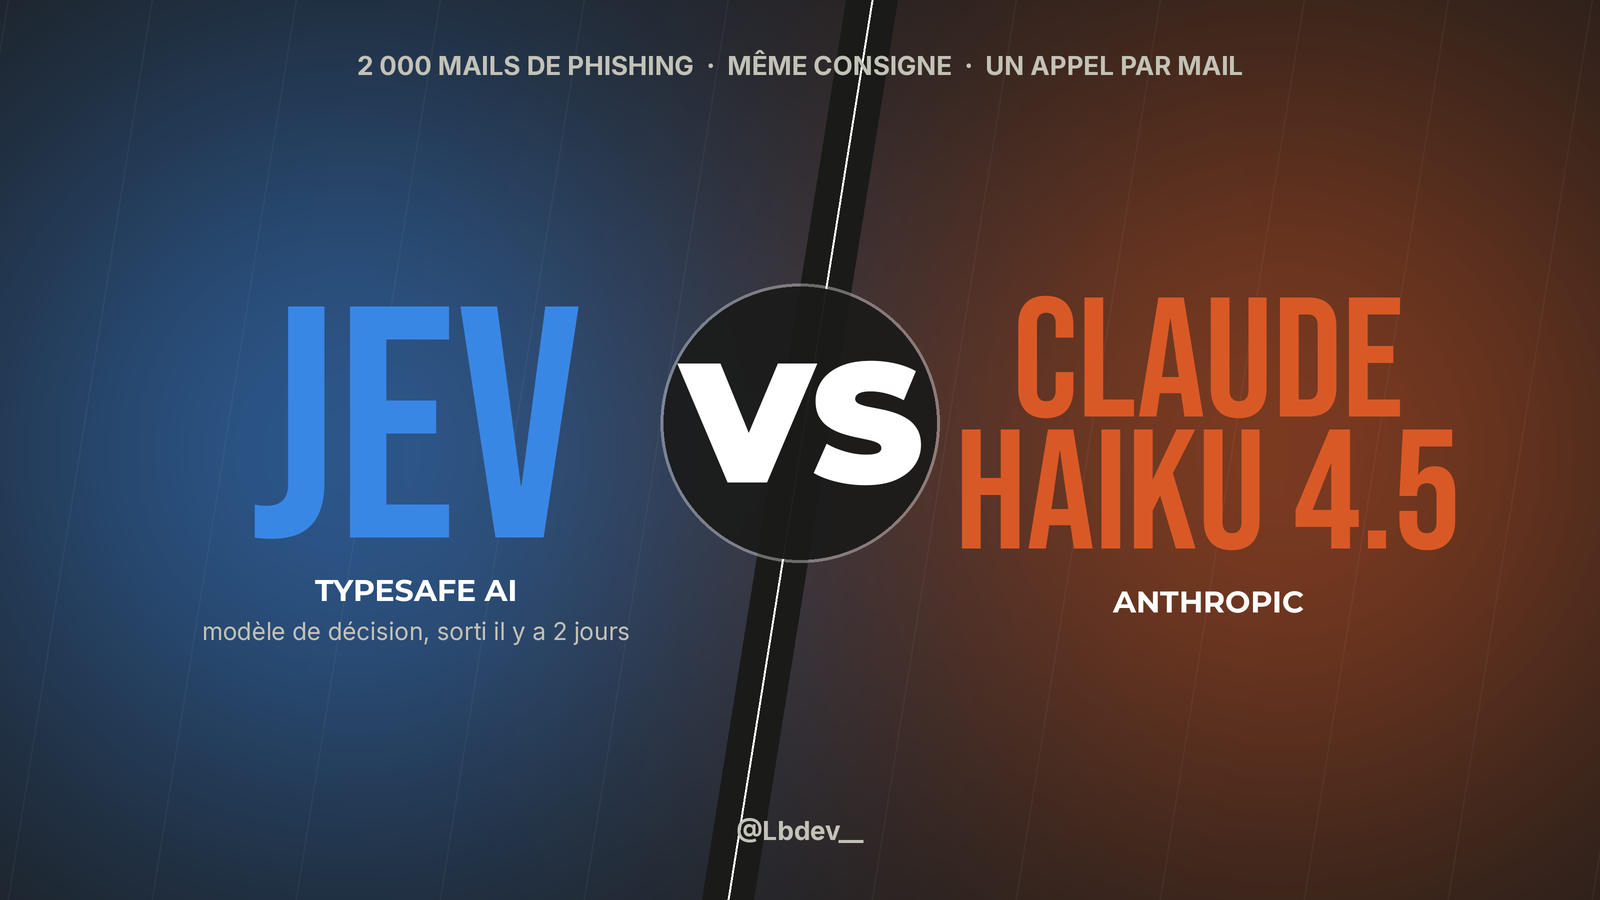
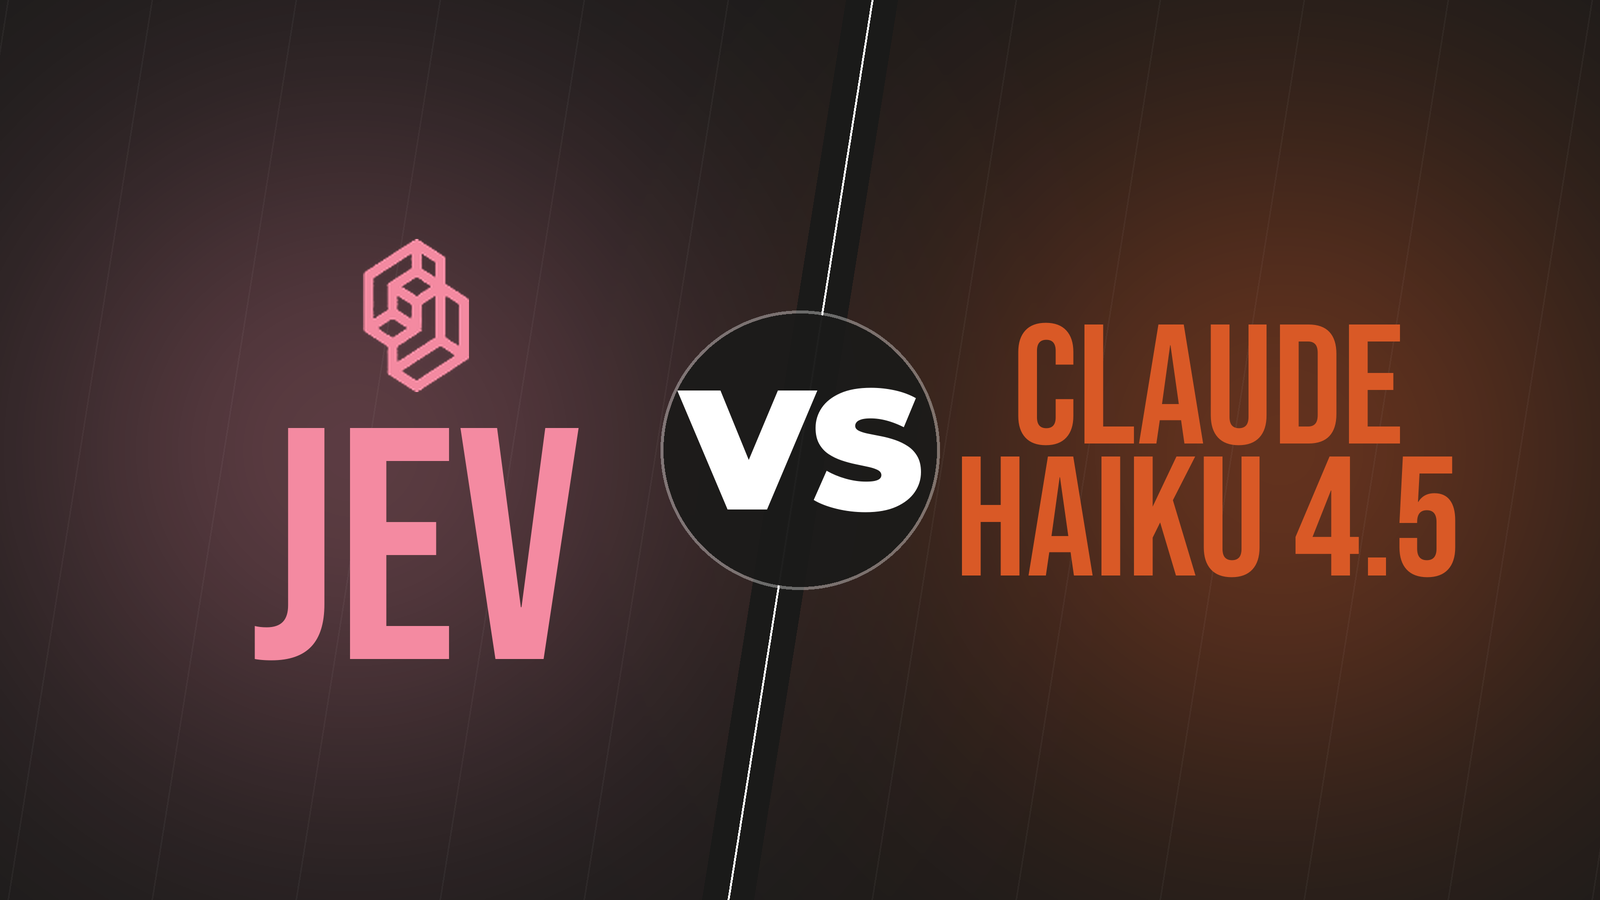
feat(hero): TypeSafe cube mark and brand pink, no text strips
Claude-Session: https://claude.ai/code/session_01THqWH2Mu2r8qJfeTtiNmxw

diff --git a/hero_image.py b/hero_image.py
@@ -1,9 +1,11 @@
-"""Versus image for the first tweet of the thread, dark theme, 1600 x 900.
+"""Versus image for the first tweet of the thread, dark theme, 1600 x 900, no sentence anywhere.
 
 results/hero_vs_llms.png  : Jev against the LLM crowd named in TypeSafe's pitch (Claude, GPT, Gemini, DeepSeek)
 results/hero_vs_haiku.png : Jev against Claude Haiku 4.5, the only model actually benchmarked
 
-Fonts are downloaded at runtime from Google Fonts into data/fonts (never committed).
+Inputs downloaded or provided at runtime, never committed:
+- data/fonts : Bebas Neue, Montserrat, Inter from Google Fonts (fetched here)
+- data/brand/typesafe_logo.jpg : the TypeSafe AI logo card (dark mark on pink), the cube mark is cut out of it
 
 Usage: uv run hero_image.py
 """
@@ -18,12 +20,14 @@ import numpy as np
 from PIL import Image, ImageDraw, ImageFilter, ImageFont
 
 from bench.common import RESULTS_DIR
-from charts import JEV, LLM, SURFACE, TEXT, TEXT_2
+from charts import LLM, SURFACE, TEXT
 
 FONT_DIR = Path("data/fonts")
+LOGO = Path("data/brand/typesafe_logo.jpg")
 UA = "Mozilla/5.0 (Windows NT 6.1; WOW64; rv:20.0) Gecko/20100101 Firefox/20.0"  # old UA so Google serves woff, which PIL reads
-FAMILIES = {"bebas": "Bebas+Neue", "montserrat": "Montserrat:700,900", "inter": "Inter:400,700,900"}
+FAMILIES = {"bebas": "Bebas+Neue", "montserrat": "Montserrat:900"}
 
+PINK = "#f48aa1"  # sampled from the TypeSafe logo card
 W, H = 1600, 900
 SS = 2  # supersampling factor
 
@@ -34,8 +38,8 @@ def fetch_fonts() -> dict[str, Path]:
     for key, fam in FAMILIES.items():
         req = urllib.request.Request(f"https://fonts.googleapis.com/css?family={fam}", headers={"User-Agent": UA})
         css = urllib.request.urlopen(req).read().decode()
-        for i, url in enumerate(re.findall(r"https://fonts\.gstatic\.com[^)]+", css)):
-            path = FONT_DIR / f"{key}-{i}.woff"
+        for url in re.findall(r"https://fonts\.gstatic\.com[^)]+", css):
+            path = FONT_DIR / f"{key}-{url.rsplit('/', 1)[1]}"
             if not path.exists():
                 path.write_bytes(urllib.request.urlopen(urllib.request.Request(url, headers={"User-Agent": UA})).read())
             name = ImageFont.truetype(str(path), 20).getname()
@@ -45,6 +49,26 @@ def fetch_fonts() -> dict[str, Path]:
 
 def hexrgb(h: str) -> tuple[int, int, int]:
     return tuple(int(h[i : i + 2], 16) for i in (1, 3, 5))  # type: ignore[return-value]
+
+
+def cube_mark(color: str, height: int) -> Image.Image:
+    """Cut the cube mark out of the logo card: dark pixels left of the wordmark, recolored, transparent elsewhere."""
+    im = np.array(Image.open(LOGO).convert("RGB")).astype(int)
+    darkness = np.clip((430 - im.sum(axis=2)) / 200, 0, 1)  # 1 on the mark (sum < 230), 0 on the pink card (sum ~ 540)
+    dark = darkness > 0.5
+    sub = dark[80:320, 80:260]  # ignore the crop marks in the card's corners
+    rows = np.where(sub.any(axis=1))[0]
+    y0, y1 = 80 + rows.min(), 80 + rows.max()
+    cols = dark[y0 : y1 + 1, 80:260].sum(axis=0)
+    xs = np.where(cols > 0)[0]
+    x0 = 80 + xs.min()
+    x1 = x0 + int(np.argmax(cols[xs.min() :] == 0))  # first empty column after the mark, before the wordmark
+    a = darkness[y0 : y1 + 1, x0:x1]
+    rgba = np.zeros(a.shape + (4,), dtype=np.uint8)
+    rgba[..., :3] = hexrgb(color)
+    rgba[..., 3] = (a * 255).astype(np.uint8)
+    mark = Image.fromarray(rgba, "RGBA")
+    return mark.resize((round(mark.width * height / mark.height), height), Image.LANCZOS)
 
 
 def glow(size: tuple[int, int], center: tuple[float, float], color: str, radius: float, strength: float) -> Image.Image:
@@ -58,18 +82,13 @@ def glow(size: tuple[int, int], center: tuple[float, float], color: str, radius:
     return Image.fromarray(rgb, "RGBA")
 
 
-def text_size(draw: ImageDraw.ImageDraw, text: str, font: ImageFont.FreeTypeFont) -> tuple[int, int]:
-    box = draw.textbbox((0, 0), text, font=font)
-    return box[2] - box[0], box[3] - box[1]
-
-
-def render(fonts: dict[str, Path], right_lines: list[str], right_caption: str, out: Path) -> None:
+def render(fonts: dict[str, Path], right_lines: list[str], out: Path) -> None:
     w, h = W * SS, H * SS
     img = Image.new("RGBA", (w, h), hexrgb(SURFACE) + (255,))
 
-    # glows, blue left, orange right, blurred
-    img.alpha_composite(glow((w, h), (0.22 * w, 0.5 * h), JEV, 0.42 * w, 0.55))
-    img.alpha_composite(glow((w, h), (0.80 * w, 0.5 * h), LLM, 0.42 * w, 0.50))
+    # glows, pink left, orange right, blurred
+    img.alpha_composite(glow((w, h), (0.22 * w, 0.5 * h), PINK, 0.34 * w, 0.30))
+    img.alpha_composite(glow((w, h), (0.80 * w, 0.5 * h), LLM, 0.34 * w, 0.38))
     img = img.filter(ImageFilter.GaussianBlur(6 * SS))
 
     # diagonal split: a dark band with a thin light edge
@@ -91,39 +110,34 @@ def render(fonts: dict[str, Path], right_lines: list[str], right_caption: str, o
     bebas_mid = ImageFont.truetype(str(fonts["bebas-regular"]), int(170 * SS))
     bebas_small = ImageFont.truetype(str(fonts["bebas-regular"]), int(104 * SS))
     mont_black = ImageFont.truetype(str(fonts["montserrat-black"]), int(170 * SS))
-    mont_bold = ImageFont.truetype(str(fonts["montserrat-bold"]), int(30 * SS))
-    inter_bold = ImageFont.truetype(str(fonts["inter-bold"]), int(26 * SS))
-    inter = ImageFont.truetype(str(fonts["inter-regular"]), int(24 * SS))
     d = ImageDraw.Draw(img)
-    mid_y = 0.47 * h
+    mid_y = 0.5 * h
 
-    def stack(cx: float, lines: list[str], font: ImageFont.FreeTypeFont, color: str, gap: float) -> float:
-        """Draw lines centered on cx, block centered on mid_y. Returns the block's bottom y."""
+    def stack(cx: float, lines: list[str], font: ImageFont.FreeTypeFont, color: str, gap: float, center_y: float) -> tuple[float, float]:
+        """Draw lines centered on cx, block centered on center_y. Returns the block's top and bottom y."""
         boxes = [d.textbbox((0, 0), t, font=font) for t in lines]
         heights = [b[3] - b[1] for b in boxes]
         total = sum(heights) + gap * (len(lines) - 1)
-        y = mid_y - total / 2
+        top = y = center_y - total / 2
         for t, b, th in zip(lines, boxes, heights):
             d.text((cx - (b[2] - b[0]) / 2 - b[0], y - b[1]), t, font=font, fill=hexrgb(color))
             y += th + gap
-        return y - gap
+        return top, y - gap
 
-    def caption(cx: float, y: float, text: str, font: ImageFont.FreeTypeFont, color: str) -> float:
-        b = d.textbbox((0, 0), text, font=font)
-        d.text((cx - (b[2] - b[0]) / 2 - b[0], y - b[1]), text, font=font, fill=hexrgb(color))
-        return y + (b[3] - b[1])
-
-    # left: JEV
+    # left: cube mark above JEV, the pair centered as a block
     cx_left = 0.26 * w
-    bottom = stack(cx_left, ["JEV"], bebas, JEV, 0)
-    bottom = caption(cx_left, bottom + 0.045 * h, "TYPESAFE AI", mont_bold, TEXT)
-    caption(cx_left, bottom + 0.022 * h, "modèle de décision, sorti il y a 2 jours", inter, TEXT_2)
+    mark = cube_mark(PINK, int(0.17 * h))
+    gap = 0.04 * h
+    jev_h = d.textbbox((0, 0), "JEV", font=bebas)[3] - d.textbbox((0, 0), "JEV", font=bebas)[1]
+    block_top = mid_y - (mark.height + gap + jev_h) / 2
+    img.alpha_composite(mark, (int(cx_left - mark.width / 2), int(block_top)))
+    d = ImageDraw.Draw(img)
+    stack(cx_left, ["JEV"], bebas, PINK, 0, block_top + mark.height + gap + jev_h / 2)
 
     # right: the opponent(s)
     cx_right = 0.755 * w
     font = bebas_mid if len(right_lines) <= 2 else bebas_small
-    bottom = stack(cx_right, right_lines, font, LLM, 0.012 * h)
-    caption(cx_right, bottom + 0.045 * h, right_caption, mont_bold, TEXT)
+    stack(cx_right, right_lines, font, LLM, 0.012 * h, mid_y)
 
     # center VS on a dark disc
     cx, cy = 0.5 * w, mid_y
@@ -132,17 +146,8 @@ def render(fonts: dict[str, Path], right_lines: list[str], right_caption: str, o
     ImageDraw.Draw(disc).ellipse([cx - r, cy - r, cx + r, cy + r], fill=hexrgb(SURFACE) + (235,), outline=hexrgb(TEXT) + (90,), width=int(3 * SS))
     img.alpha_composite(disc)
     d = ImageDraw.Draw(img)
-    tw, th = text_size(d, "VS", mont_black)
     box = d.textbbox((0, 0), "VS", font=mont_black)
-    d.text((cx - tw / 2 - box[0], cy - th / 2 - box[1]), "VS", font=mont_black, fill=hexrgb(TEXT))
-
-    # top and bottom strips
-    top = "2 000 MAILS DE PHISHING  ·  MÊME CONSIGNE  ·  UN APPEL PAR MAIL"
-    tw, _ = text_size(d, top, inter_bold)
-    d.text((0.5 * w - tw / 2, 0.055 * h), top, font=inter_bold, fill=hexrgb(TEXT_2))
-    handle = "@Lbdev__"
-    tw, _ = text_size(d, handle, inter_bold)
-    d.text((0.5 * w - tw / 2, 0.905 * h), handle, font=inter_bold, fill=hexrgb(TEXT_2))
+    d.text((cx - (box[2] - box[0]) / 2 - box[0], cy - (box[3] - box[1]) / 2 - box[1]), "VS", font=mont_black, fill=hexrgb(TEXT))
 
     img = img.convert("RGB").resize((W, H), Image.LANCZOS)
     img.save(out, optimize=True)
@@ -151,8 +156,8 @@ def render(fonts: dict[str, Path], right_lines: list[str], right_caption: str, o
 
 def main() -> None:
     fonts = fetch_fonts()
-    render(fonts, ["CLAUDE", "GPT", "GEMINI", "DEEPSEEK"], "LES LLM CLASSIQUES", RESULTS_DIR / "hero_vs_llms.png")
-    render(fonts, ["CLAUDE", "HAIKU 4.5"], "ANTHROPIC", RESULTS_DIR / "hero_vs_haiku.png")
+    render(fonts, ["CLAUDE", "GPT", "GEMINI", "DEEPSEEK"], RESULTS_DIR / "hero_vs_llms.png")
+    render(fonts, ["CLAUDE", "HAIKU 4.5"], RESULTS_DIR / "hero_vs_haiku.png")
 
 
 if __name__ == "__main__":
